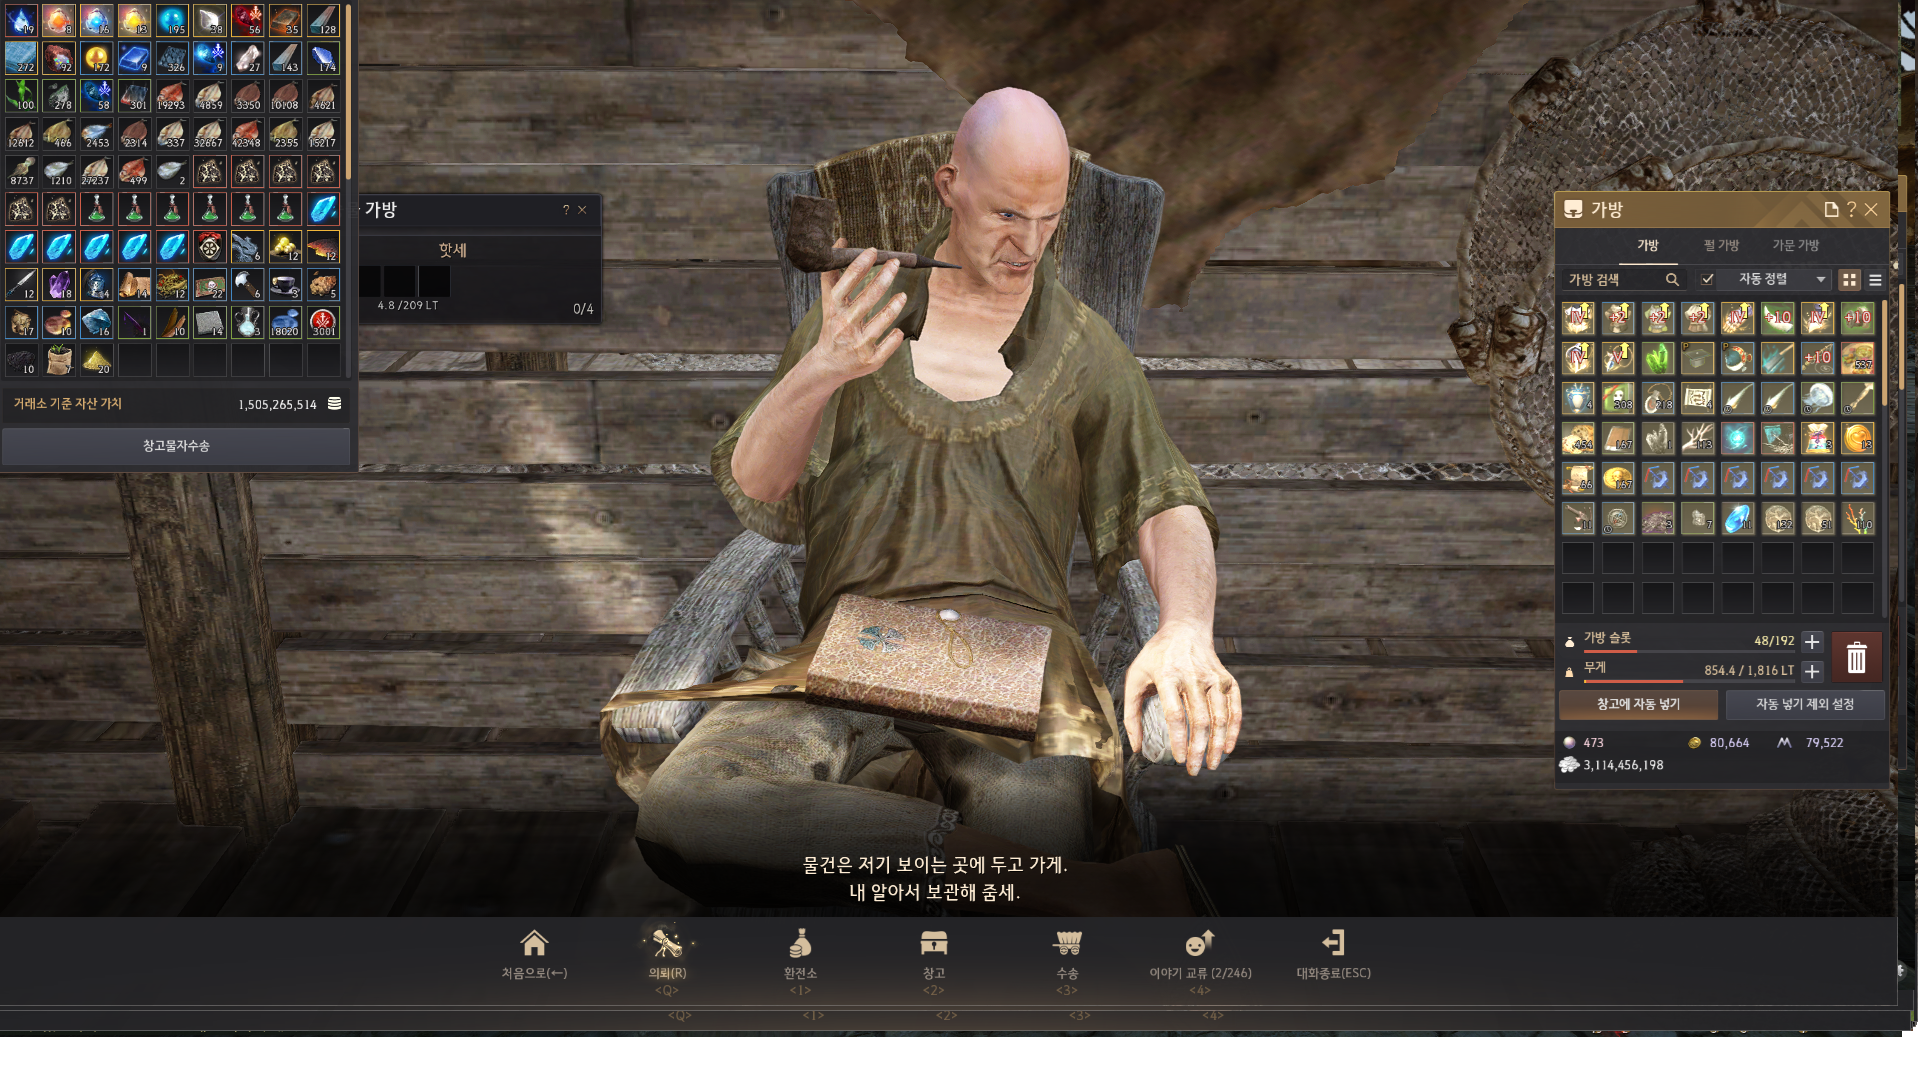
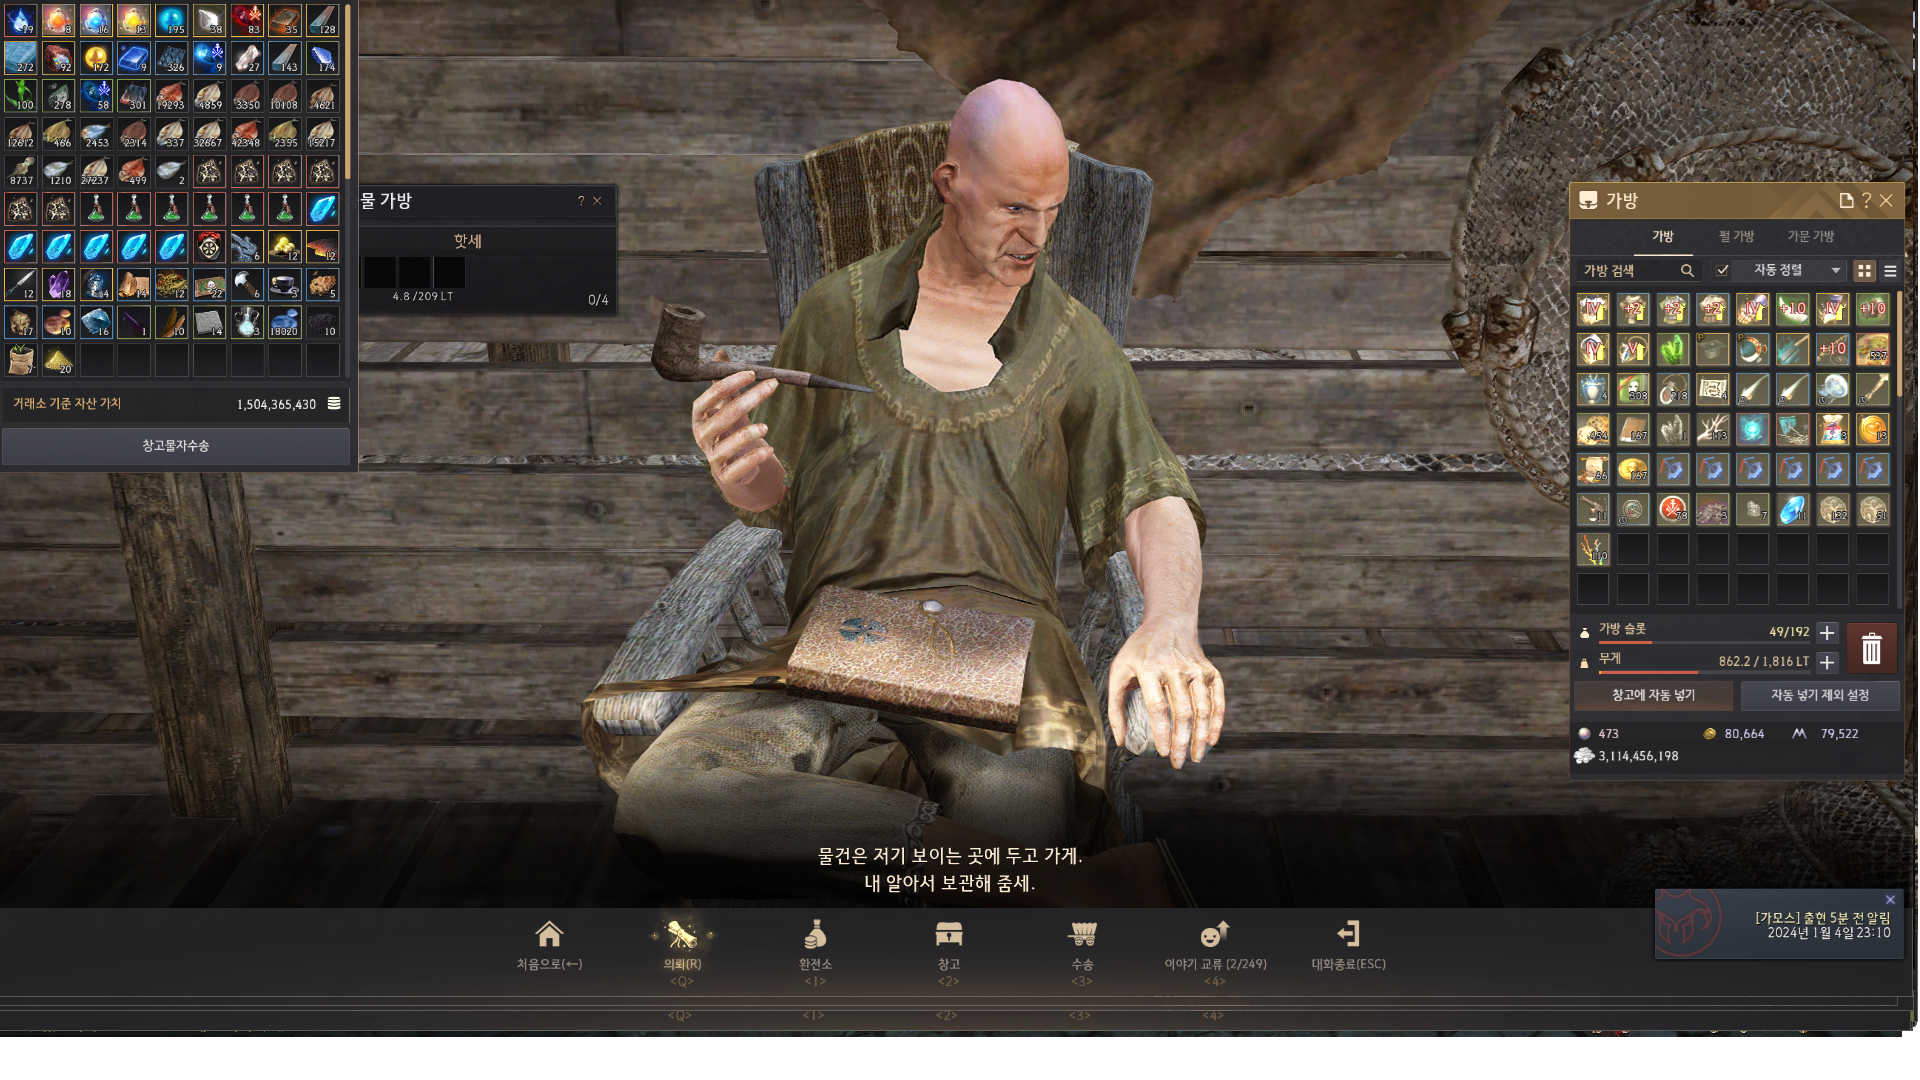
ㅇㄴㄹㄴㅇ

diff --git a/black_해역사진.html b/black_해역사진.html
@@ -193,7 +193,7 @@
     <div id="리스너용섬이름검색" style="margin-left:280px;"><!--position: relative, input에 width:80px;-->
       <h6 id="교섭력규칙" style="z-index: -100;">
         <span>1회교섭력</span><input style="z-index: 999;" id="일회교섭력으로" type = "text" maxlength = "10" value=10644><span style="text-align: left;">이면</span><br>
-        <span>재갱1회당</span><input type = "text" maxlength = "10"><span class="d-none">4.3002</span><br>
+        <span>재갱1회당</span><input type = "text" maxlength = "10"><span class="d-none">4.30022</span><br>
         <span>하코저가2종</span><input type = "text" maxlength = "10"><span class="d-none">2.54949</span><br>
         <span>하코고가2종</span><input type = "text" maxlength = "10"><span class="d-none">3.06468</span><br>
         <span>대양저가3종</span><input type = "text" maxlength = "10"><span class="d-none">3.25815</span><br>
@@ -421,7 +421,7 @@
         <div><button></button><button style="font-size: 14px;line-height: 16px;">일퀘개수</button><button title="파템재료_일퀘개수">보유</button><button>메모</button></div>
         <div><button class="에페리아창고사진일부분" style="background-position: -2px -2px;"></button><button>1</button><button    class="노랑">19</button><button>[일일] 어린 <span class="a_형식">검은무쇠이빨</span> 1개</button></div><!-- 심해의 눈물 1-->
         <div><button class="에페리아창고사진일부분" style="background-position: -2px -2px;"></button><button>물교</button><button class="노랑">38</button><button>물교 1개</button></div><!-- 화려한 진주 결정-->
-        <div><button class="에페리아창고사진일부분" style="background-position: -2px -2px;"></button><button>3</button><button    class="노랑">56</button><button>[병사] 3개</button></div><!-- 콕스유물 전투 -->
+        <div><button class="에페리아창고사진일부분" style="background-position: -2px -2px;"></button><button>3</button><button    class="노랑">83</button><button>[병사] 3개</button></div><!-- 콕스유물 전투 -->
         <div><button class="에페리아창고사진일부분" style="background-position: -2px -2px;"></button><button>물교</button><button class="노랑">35</button><button>물교 1개</button></div><!-- 화려한 암염 주괴-->
         <div><button class="에페리아창고사진일부분" style="background-position: -2px -2px;"></button><button>3</button><button    class="노랑">128</button><button>[병사] 3개 (짙은 파도빛)</button></div><!--짙은 파도빛이 감도는 규격 각목 3 -->
         <div><button class="에페리아창고사진일부분" style="background-position: -2px -2px;"></button><button>3</button><button    class="노랑">272</button><button>[나루터지기]어린 나인샤크 3개</button></div><!-- 달의 핏줄이 새겨진 아마포 3-->
